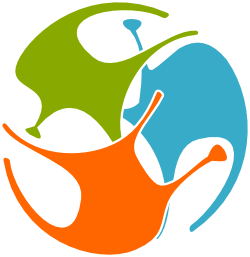
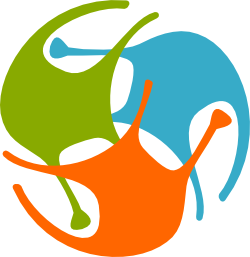
Home styling

diff --git a/public/stylesheets/application.css b/public/stylesheets/application.css
@@ -607,10 +607,7 @@ icon:hover {
 .icon-small {
 	font-size: 10px;
 }
-.big-lead {
-	margin-bottom: 30px;
-	margin-top: 40px;
-}
+
 .nav-list > .active > a, .nav-list > .active > a:hover, .nav-list > .active > a:focus {
 	background-color: #37abc8;
 }
@@ -713,8 +710,11 @@ margin-bottom:10px;
 
 .big-lead {
 	font-weight: 200;
-	font-size: 40px;
+	font-size: 60px;
 	line-height: 1.2;
+	margin-bottom: 30px;
+	margin-top: 40px;
+
 }
 .btn-group a {
 	display: inline-block;
@@ -755,7 +755,7 @@ margin-bottom:10px;
 
 #osbcircle {
 	margin: 0 auto;
-	margin-top: 20px;
+	margin-top: 80px;
 	margin-bottom: 20px;
 	width: 250px;
 	height: 257px;
